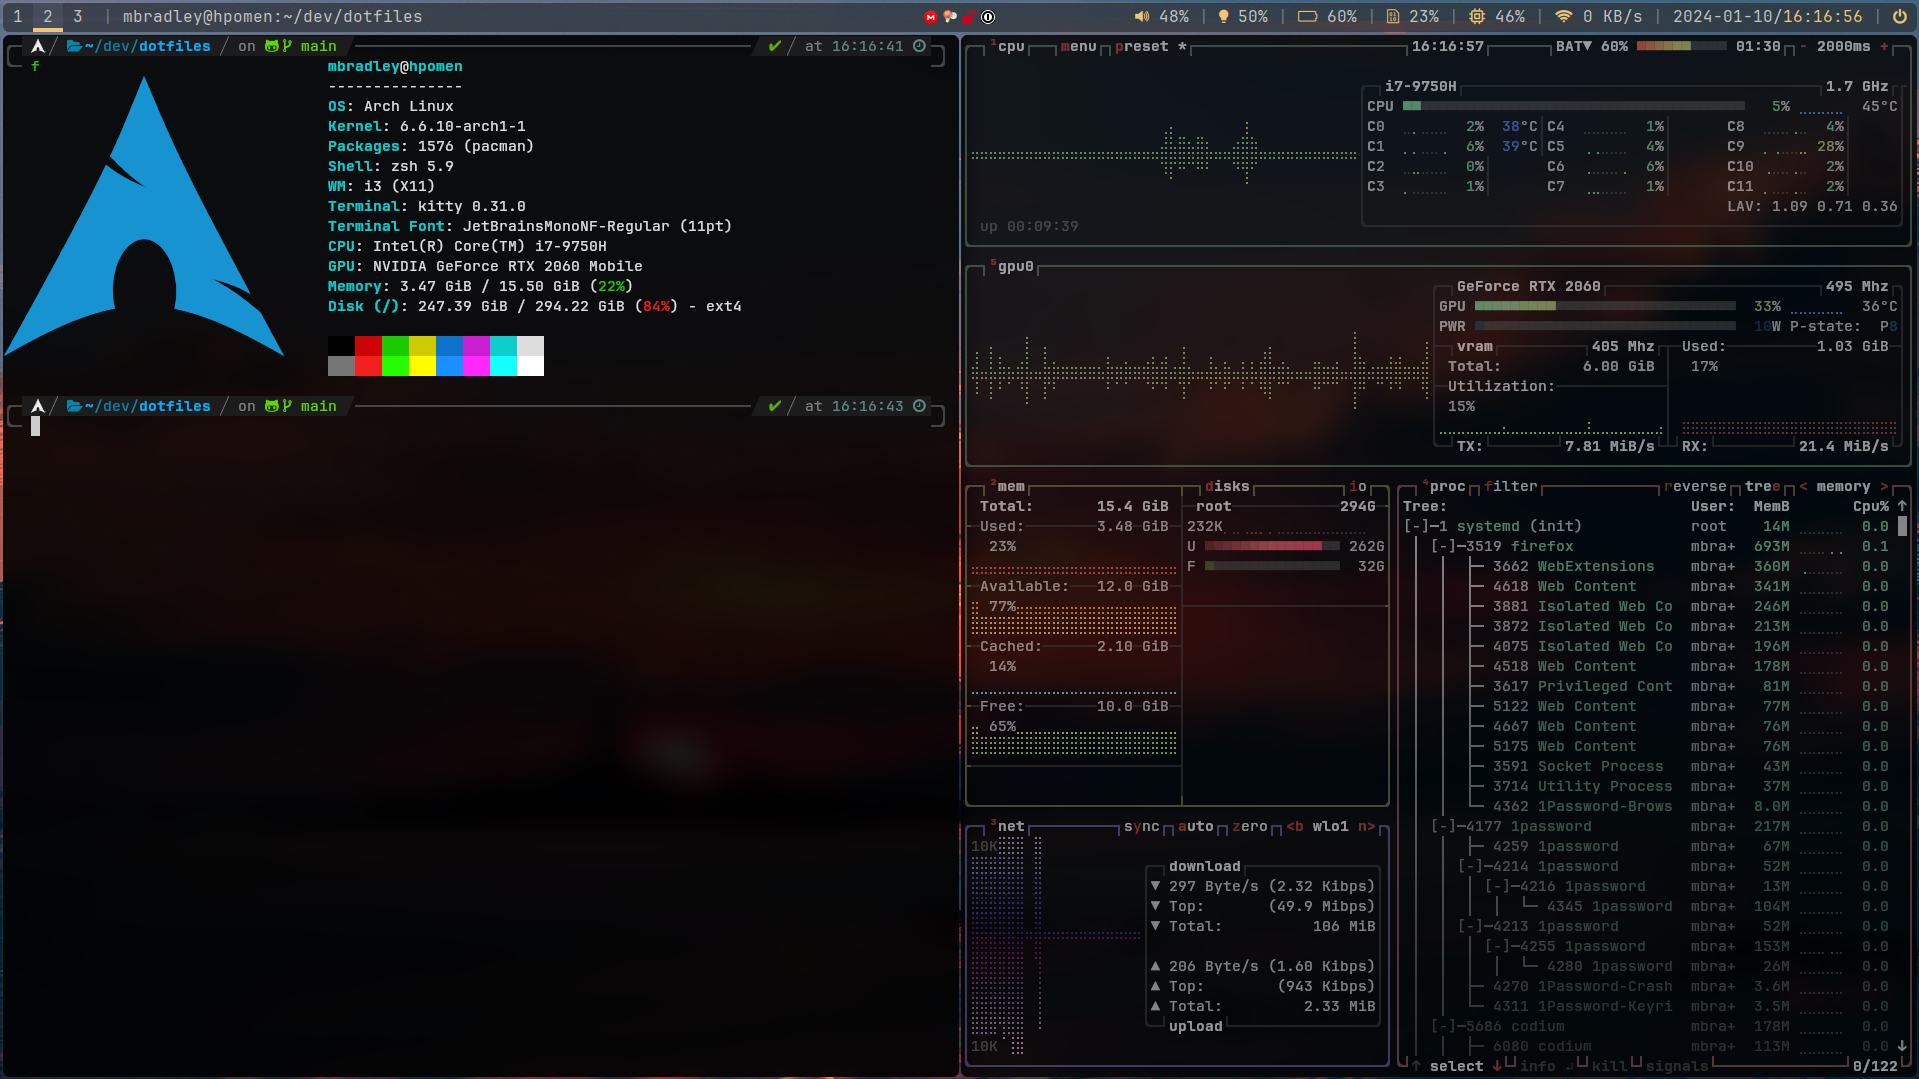
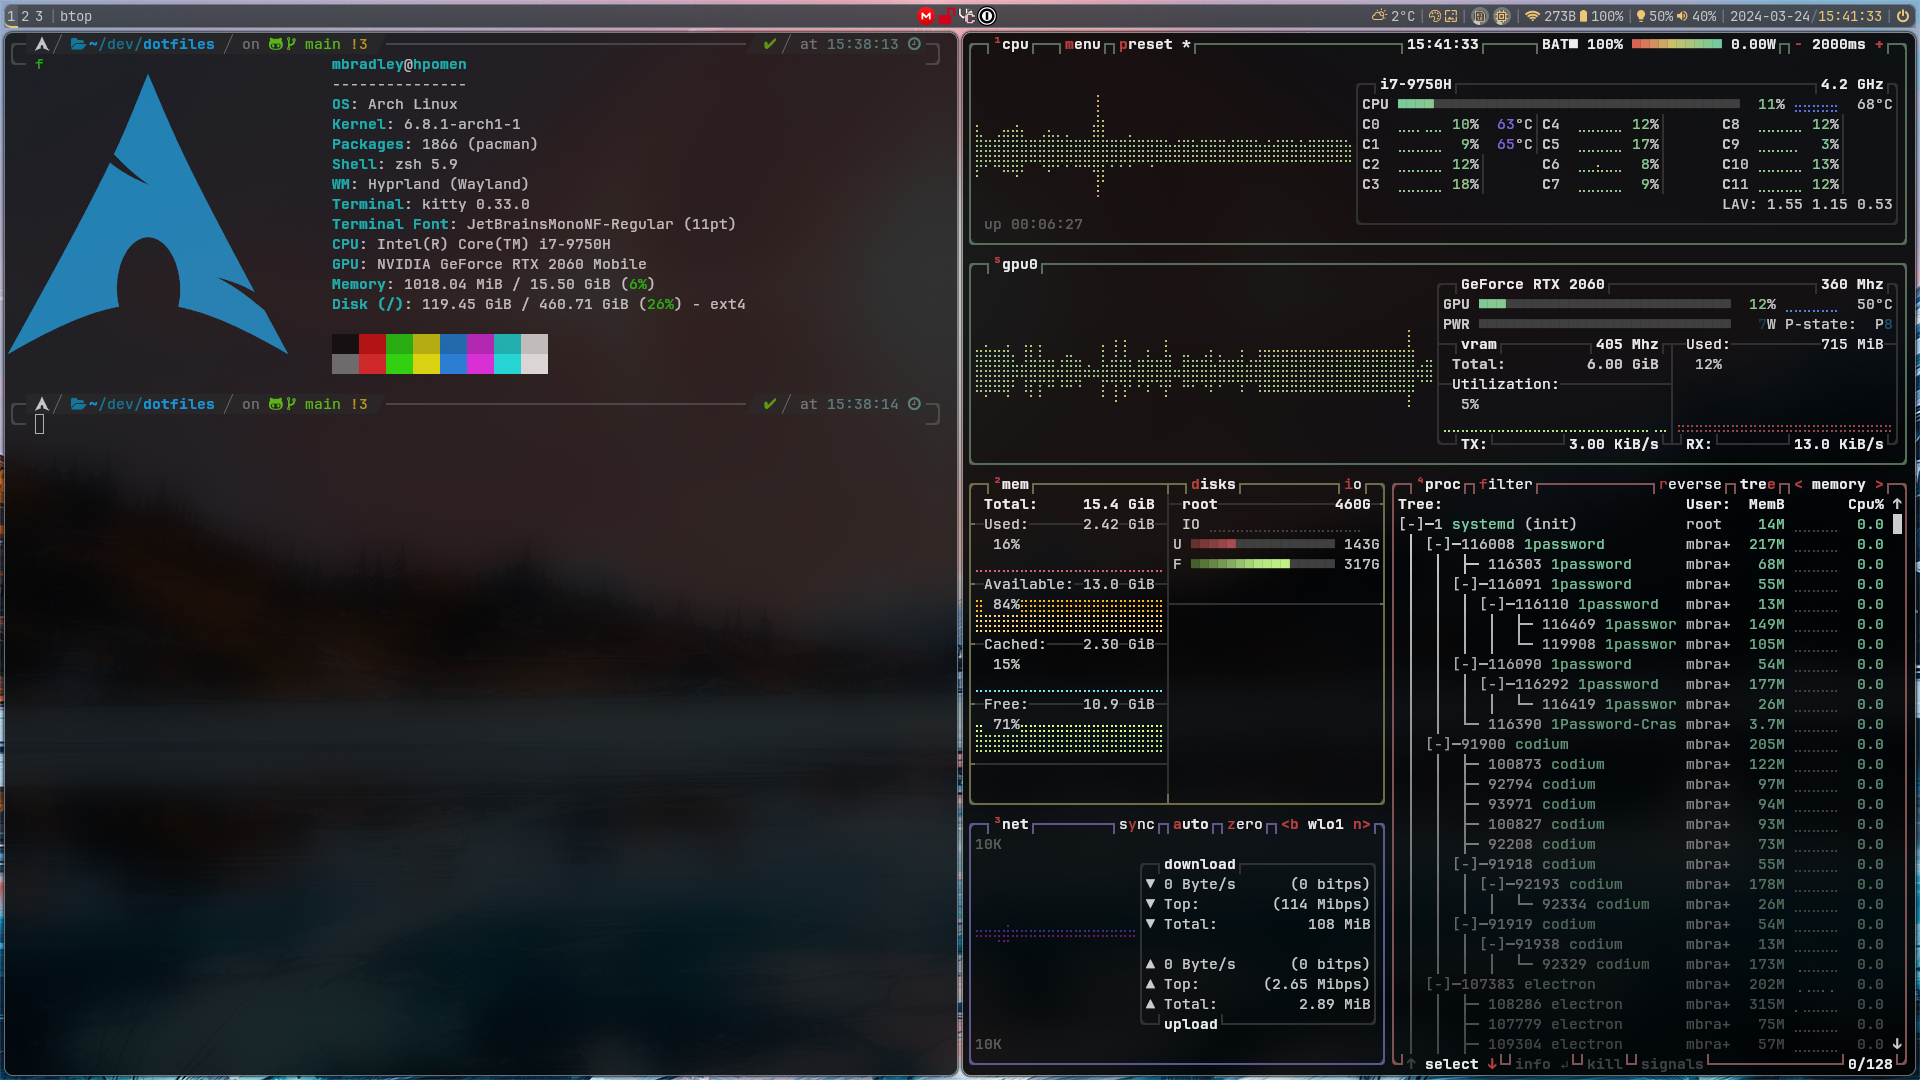
Update README and screenshot

diff --git a/README.md b/README.md
@@ -1,13 +1,6 @@
 # Dotfiles
 
-I use Arch Linux with Hyprland, Rofi, and EWW.
-The dotfiles are managed with TOML Bombadil.
+I use Arch Linux with [Hyprland](https://hyprland.org/), [Rofi](https://github.com/lbonn/rofi), and [EWW](https://github.com/elkowar/eww).
+The dotfiles are managed with [TOML Bombadil](https://github.com/oknozor/toml-bombadil).
 
 ![Two terminals open side by side on my laptop, the left with the output of fastfetch and the right with btop](https://raw.githubusercontent.com/MichaelMBradley/dotfiles/master/laptop.png)
-
-## TODO
-
-* Add links
-* Fix dark mode files
-* Update screenshot
-
